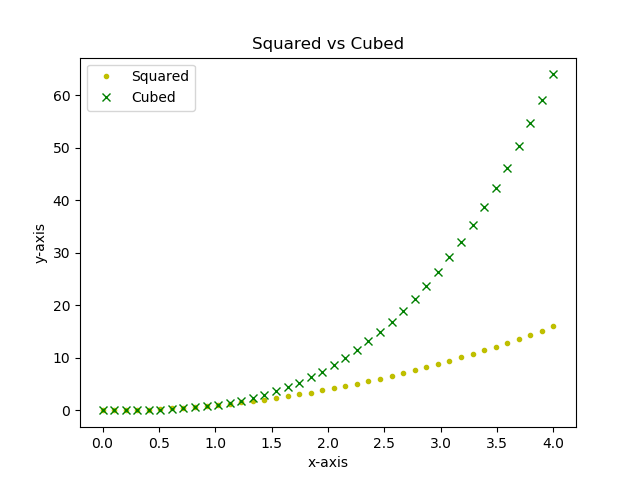
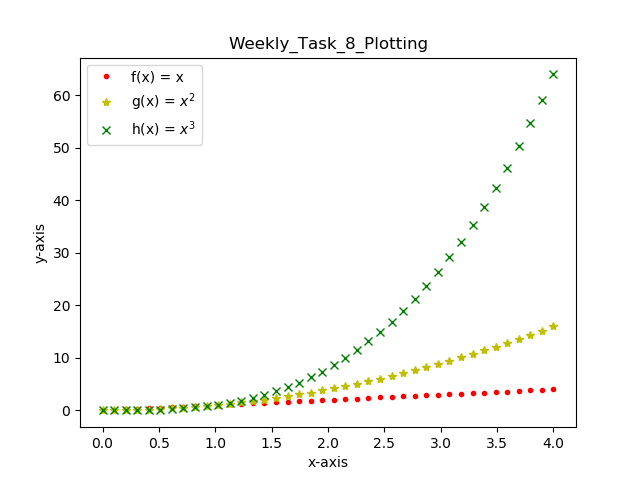
Updating weekly task 8 to include f(x), also adding show, pause, close to code

diff --git a/Weekly tasks/Weekly_task_8.plotting.py b/Weekly tasks/Weekly_task_8.plotting.py
@@ -5,11 +5,14 @@ import numpy as np
 x = np.linspace(0.0, 4.0, 40)
 g = x**2
 h = x**3
-plt.plot(x, g, "y.", label = "Squared")
-plt.plot(x, h, "gx", label = "Cubed")
-plt.title("Squared vs Cubed")
+plt.plot(x, x, "r.", label = "f(x) = x")
+plt.plot(x, g, "y*", label = "g(x) = $x^2$")
+plt.plot(x, h, "gx", label = "h(x) = $x^3$")
+plt.title("Weekly_Task_8_Plotting")
 plt.xlabel("x-axis")
 plt.ylabel("y-axis")
 plt.legend()
 plt.savefig("Weekly_task_8.png")
-plt.show()
+plt.show(block=False)
+plt.pause(5)
+plt.close("all")
